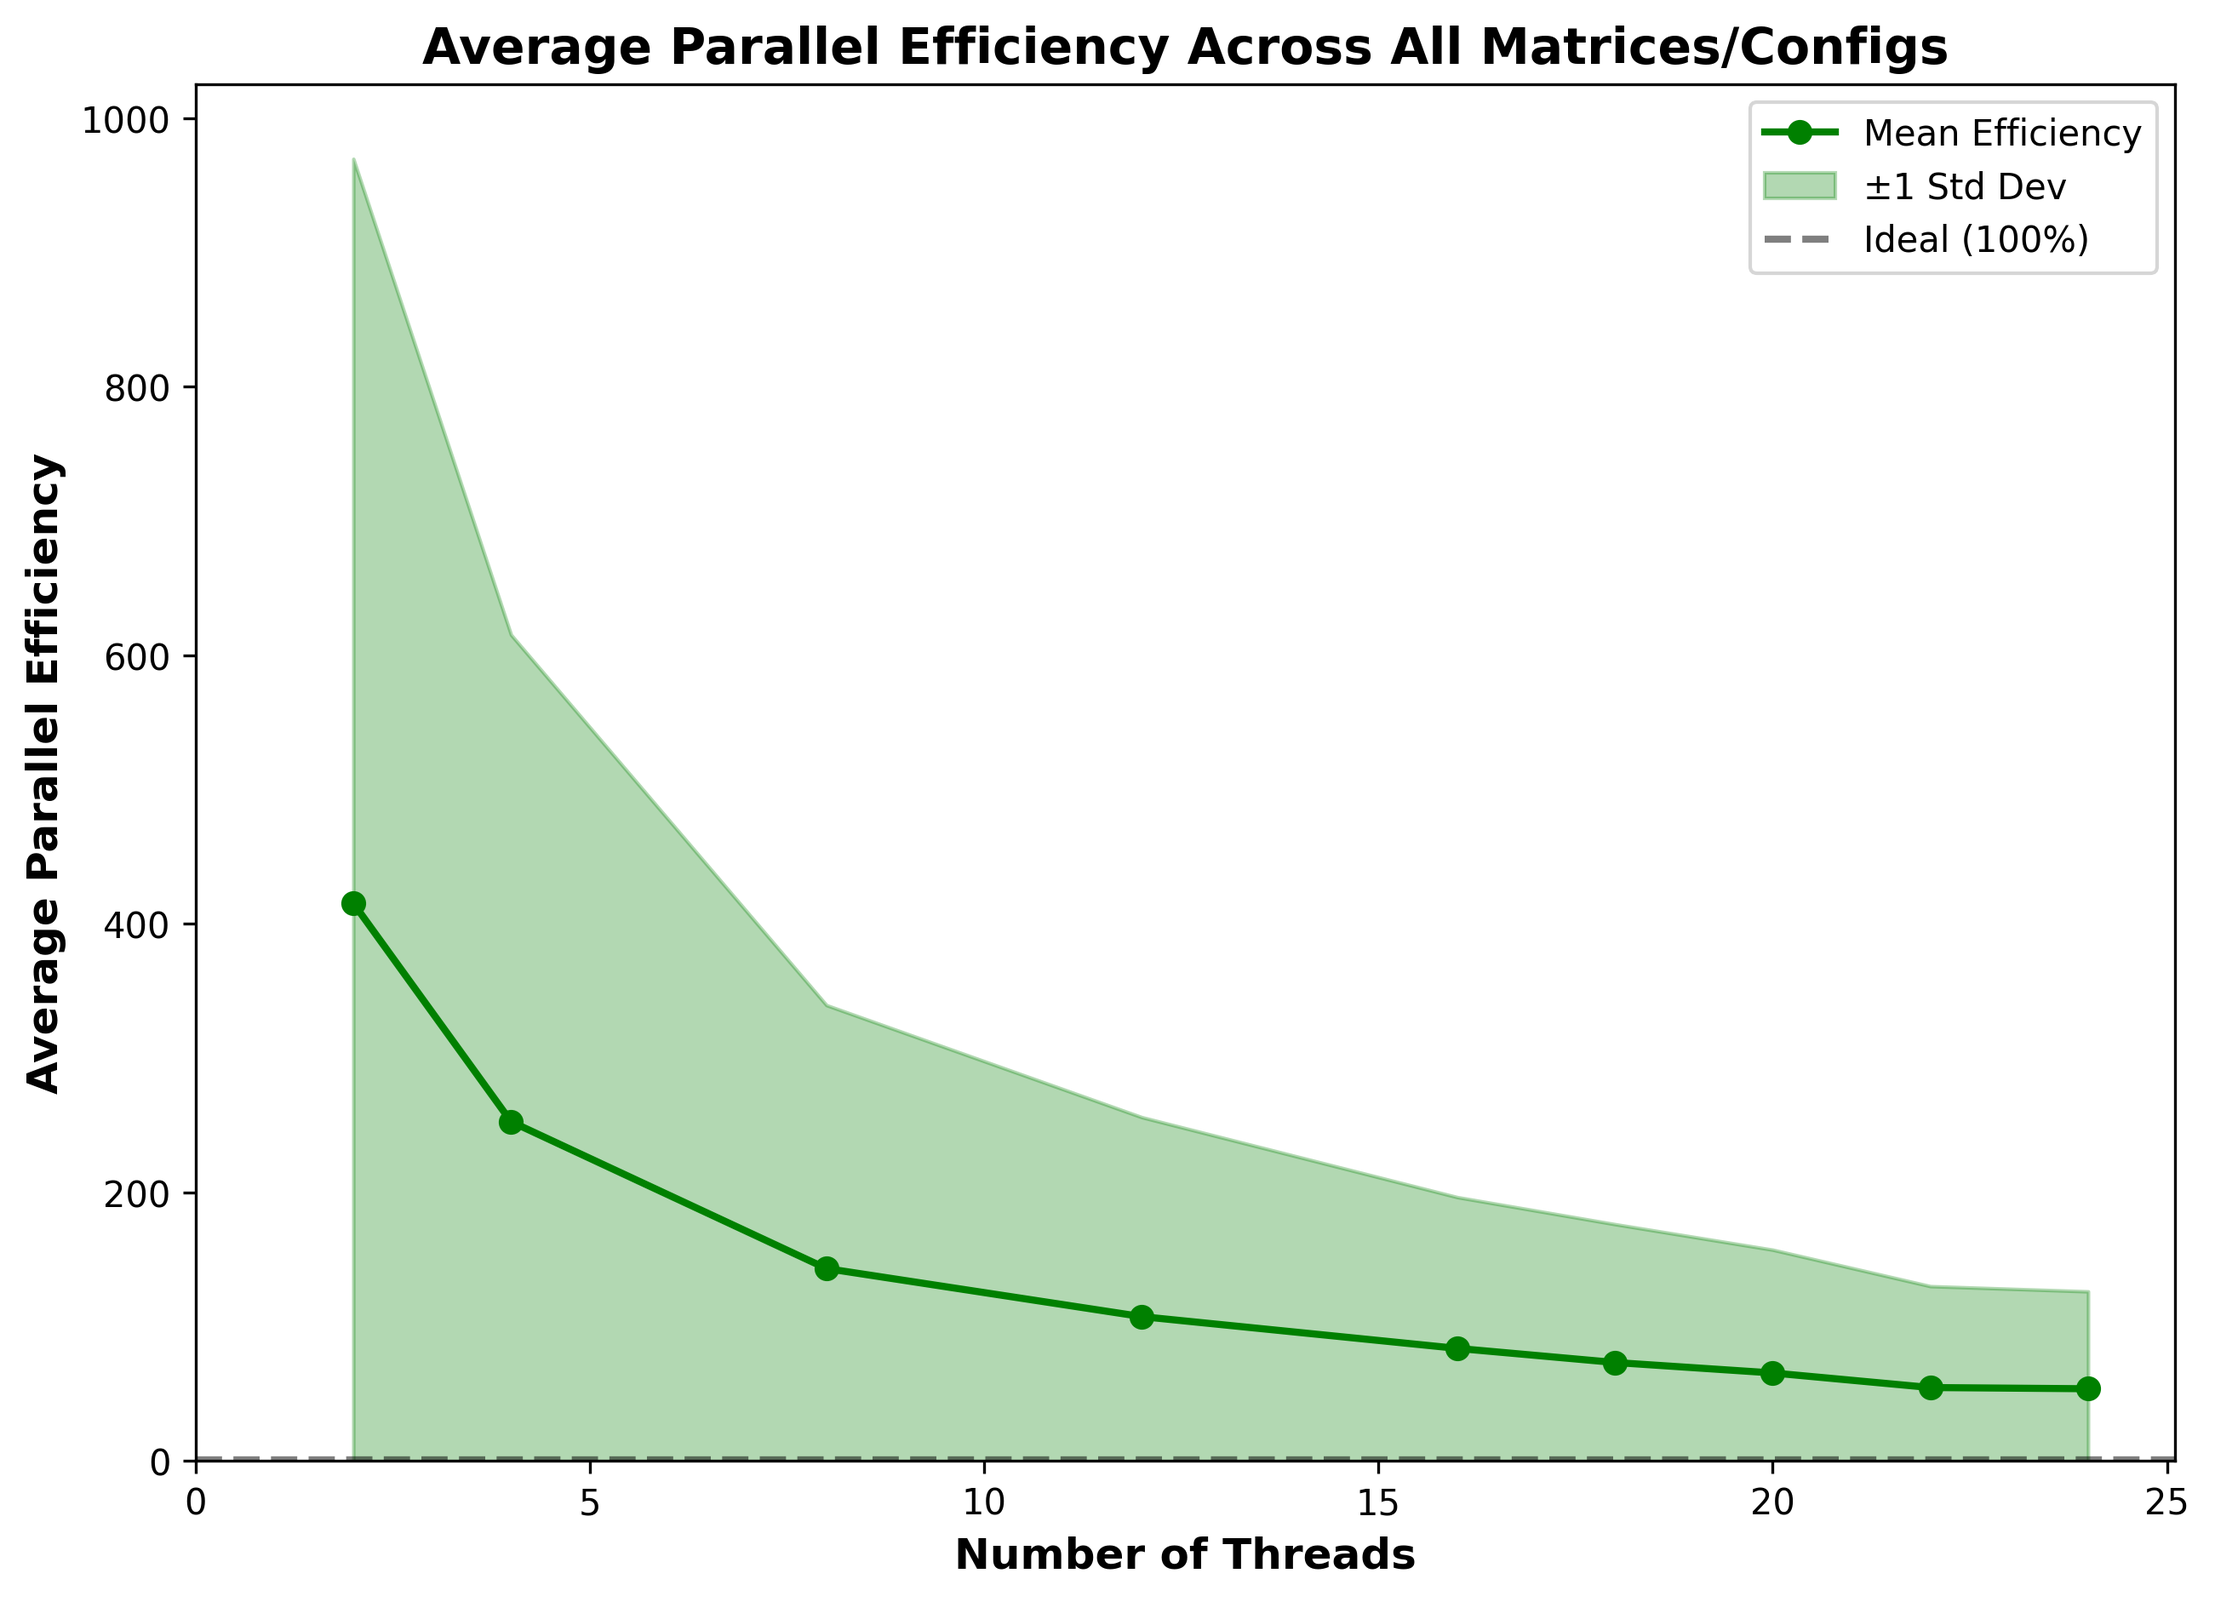
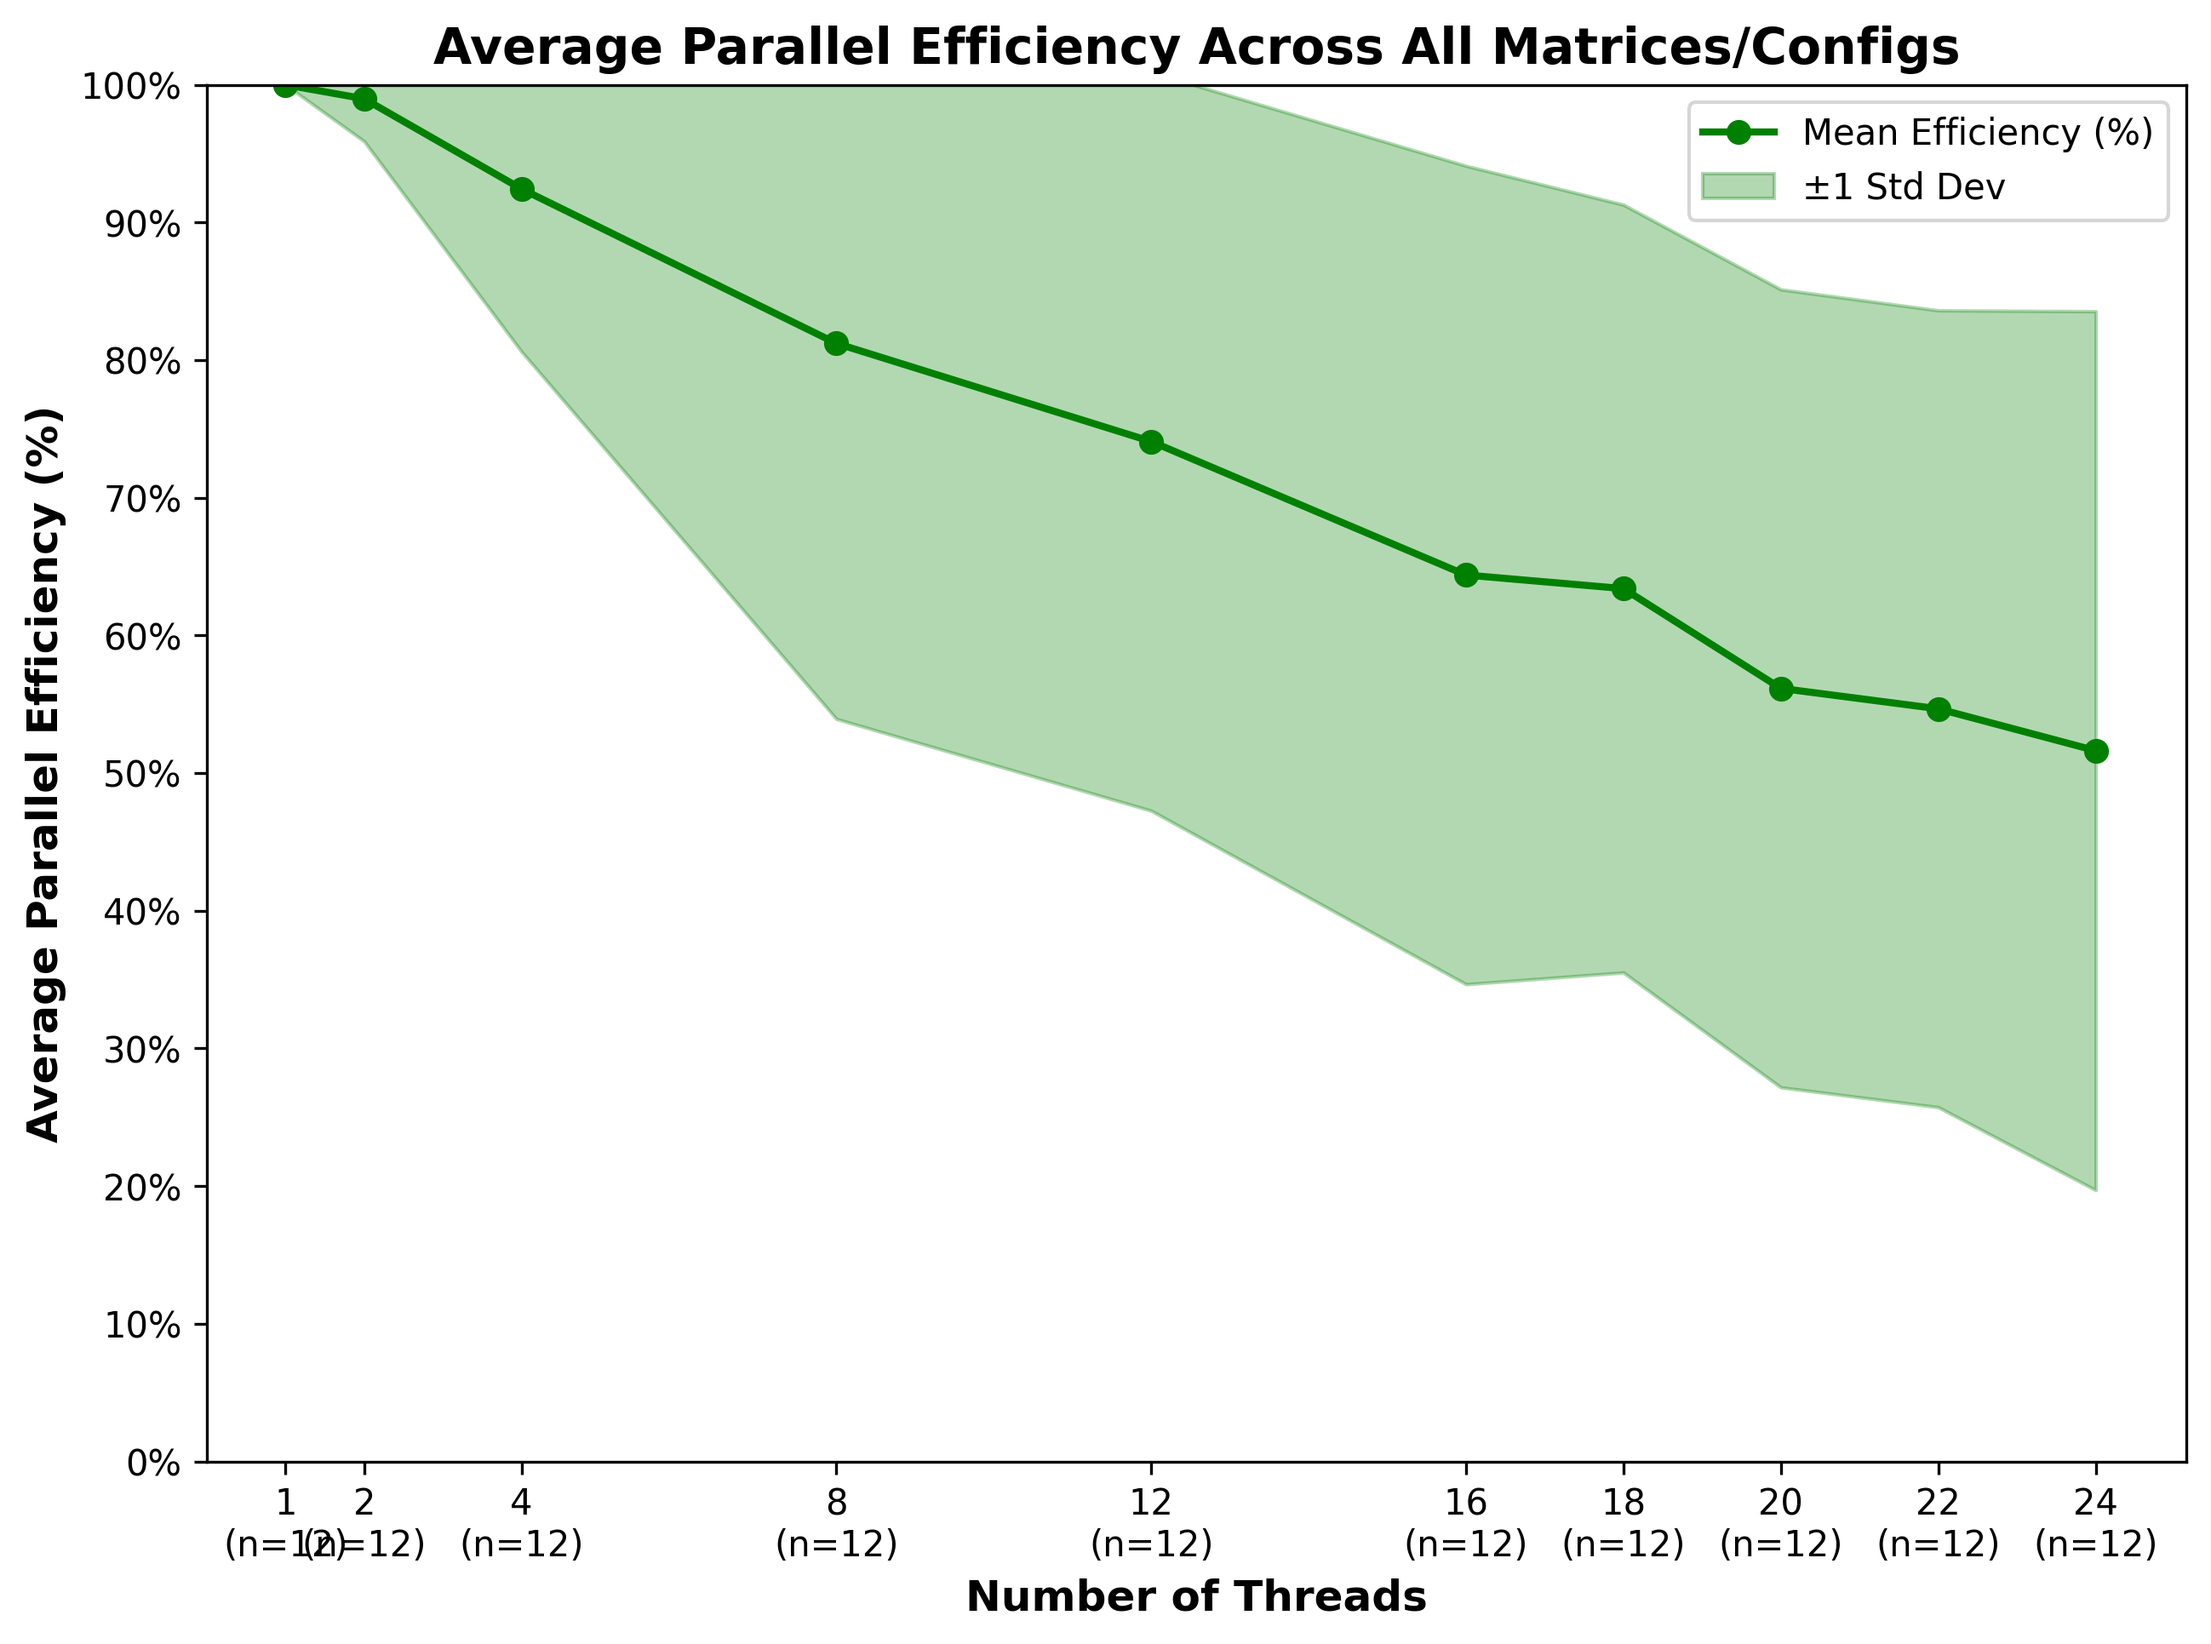
readme and plots changes

diff --git a/scripts/analyze_strong_scaling.py b/scripts/analyze_strong_scaling.py
@@ -89,21 +89,56 @@ def main():
     print()
 
     df = load_data(csv_file)
-    # If using matrices_results.csv, it already contains best-config speedups per matrix
-    if csv_file.name == 'matrices_results.csv':
-        print("\nUsing matrices_results.csv: building metrics from 'speedup_x' column")
-        # create a clean matrix name column (avoid touching existing 'matrix' column)
-        df['matrix_name'] = df['matrix'].apply(lambda x: os.path.basename(str(x).strip('"')).replace('.mtx', ''))
-        # ensure numeric
-        df['speedup_x'] = pd.to_numeric(df['speedup_x'], errors='coerce')
-        df = df.dropna(subset=['speedup_x', 'threads', 'matrix_name'])
-        # Build metrics_df with unique column names to avoid duplicate 'matrix' column issues
-        metrics_df = df[['matrix_name', 'threads', 'speedup_x']].copy()
-        metrics_df.columns = ['matrix', 'threads', 'speedup']
+
+    # Recompute speedups using per-matrix 1-thread times from configurations_results.csv when available.
+    conf_csv = results_dir / 'configurations_results.csv'
+    if conf_csv.exists():
+        print("\nRecomputing speedup using per-matrix 1-thread baselines from 'configurations_results.csv'...")
+        conf = pd.read_csv(conf_csv)
+        # ensure numeric and filter successful runs
+        conf['time_ms'] = pd.to_numeric(conf['time_ms'], errors='coerce')
+        if 'exit_code' in conf.columns:
+            conf = conf[conf['exit_code'] == 0]
+        conf = conf.dropna(subset=['time_ms', 'threads', 'matrix'])
+        # normalize matrix names (strip directories)
+        conf['matrix_name'] = conf['matrix'].apply(lambda x: os.path.basename(str(x).strip('"')).replace('.mtx', ''))
+
+        # build per-matrix serial baseline: use the fastest 1-thread time (best single-thread)
+        # This ensures speedup is relative to the best observed serial performance for each matrix.
+        serial_baseline = {}
+        for m, g in conf.groupby('matrix_name'):
+            one = g[g['threads'] == 1]
+            if one.empty:
+                continue
+            # fastest 1-thread time across configurations
+            serial_time = one['time_ms'].min()
+            serial_baseline[m] = serial_time
+
+        # for each matrix and thread count, pick best (min) time across configurations and compute speedup
+        rows = []
+        for (m, t), group in conf.groupby(['matrix_name', 'threads']):
+            if m not in serial_baseline:
+                continue
+            best_time = group['time_ms'].min()
+            if best_time <= 0 or pd.isna(best_time):
+                continue
+            speedup = serial_baseline[m] / best_time
+            efficiency = speedup / float(t) if t > 0 else float('nan')
+            rows.append({'matrix': m, 'threads': int(t), 'speedup': float(speedup), 'efficiency': float(efficiency)})
+
+        metrics_df = pd.DataFrame(rows)
         print(f"Built metrics for {metrics_df['matrix'].nunique()} matrices, {len(metrics_df)} rows total")
     else:
-        print("\nCalculating strong scaling metrics from configurations_results.csv...")
-        metrics_df = calculate_strong_scaling_metrics(df)
+        # Fallback: if configurations_results.csv missing, try to use matrices_results.csv speedup_x
+        print("\nconfigurations_results.csv not found — falling back to matrices_results.csv 'speedup_x' values")
+        if csv_file.name == 'matrices_results.csv':
+            df['matrix_name'] = df['matrix'].apply(lambda x: os.path.basename(str(x).strip('"')).replace('.mtx', ''))
+            df['speedup_x'] = pd.to_numeric(df['speedup_x'], errors='coerce')
+            df = df.dropna(subset=['speedup_x', 'threads', 'matrix_name'])
+            metrics_df = df[['matrix_name', 'threads', 'speedup_x']].copy()
+            metrics_df.columns = ['matrix', 'threads', 'speedup']
+        else:
+            metrics_df = calculate_strong_scaling_metrics(df)
     print(f"Calculated metrics for {len(metrics_df)} test runs")
 
     # --- Plot 1: Strong Scaling (Best configuration per matrix OR provided best results) ---
@@ -155,24 +190,41 @@ def main():
     else:
         print("No per-matrix series found to plot strong scaling.")
 
+    # Summary plot removed per user request; using average efficiency plot instead.
+
     # --- Plot 2: Parallel Efficiency vs Threads ---
+    # Compute parallel efficiency (speedup per thread) and convert to percentage
     metrics_df['efficiency'] = metrics_df['speedup'] / metrics_df['threads']
-    avg_eff = metrics_df.groupby('threads').agg({'efficiency': ['mean', 'std']}).reset_index()
-    avg_eff.columns = ['threads', 'mean', 'std']
+    avg_eff = metrics_df.groupby('threads').agg({'efficiency': ['mean', 'std', 'count']}).reset_index()
+    avg_eff.columns = ['threads', 'mean', 'std', 'count']
+
+    # Convert to percentage for plotting
+    avg_eff['mean_pct'] = avg_eff['mean'] * 100.0
+    avg_eff['std_pct'] = avg_eff['std'] * 100.0
 
     plt.figure(figsize=(10, 7))
-    plt.plot(avg_eff['threads'], avg_eff['mean'], 'g-o', linewidth=2, label='Mean Efficiency')
+    plt.plot(avg_eff['threads'], avg_eff['mean_pct'], 'g-o', linewidth=2, label='Mean Efficiency (%)')
     plt.fill_between(avg_eff['threads'],
-                     avg_eff['mean'] - avg_eff['std'],
-                     avg_eff['mean'] + avg_eff['std'],
+                     avg_eff['mean_pct'] - avg_eff['std_pct'],
+                     avg_eff['mean_pct'] + avg_eff['std_pct'],
                      alpha=0.3, color='green', label='±1 Std Dev')
-    plt.axhline(1.0, color='k', linestyle='--', linewidth=2, alpha=0.5, label='Ideal (100%)')
+    # Removed the ideal 100% horizontal line per user request
     plt.xlabel('Number of Threads', fontsize=12, fontweight='bold')
-    plt.ylabel('Average Parallel Efficiency', fontsize=12, fontweight='bold')
+    plt.ylabel('Average Parallel Efficiency (%)', fontsize=12, fontweight='bold')
     plt.title('Average Parallel Efficiency Across All Matrices/Configs', fontsize=14, fontweight='bold')
     plt.legend()
-    plt.xlim(left=0)
-    plt.ylim(bottom=0)
+    ax = plt.gca()
+    ax.set_xlim(left=0)
+    # Force y-axis to percentage range 0-100
+    ax.set_ylim(0, 100)
+    ax.set_yticks(np.arange(0, 101, 10))
+    ax.set_yticklabels([f"{int(t)}%" for t in ax.get_yticks()])
+    # Annotate sample counts under x ticks
+    xticks = avg_eff['threads'].astype(int).tolist()
+    labels = [f"{t}\n(n={int(c)})" for t, c in zip(avg_eff['threads'], avg_eff['count'])]
+    ax.set_xticks(xticks)
+    ax.set_xticklabels(labels)
+
     output_file_eff = plots_dir / 'average_efficiency_vs_threads.png'
     plt.savefig(output_file_eff, dpi=300, bbox_inches='tight')
     print(f"✓ Plot saved to: {output_file_eff}")

diff --git a/scripts/print_avg_eff.py b/scripts/print_avg_eff.py
@@ -1,0 +1,78 @@
+#!/usr/bin/env python3
+"""Print per-thread average efficiency (mean/std/count) in percent.
+
+This uses the same baseline selection logic as `analyze_strong_scaling.py`:
+- prefer per-matrix `configuration` containing 'Static' at threads==1 (non-SIMD)
+- otherwise use the fastest 1-thread time as fallback
+
+Run from project root: `python scripts/print_avg_eff.py`
+"""
+import pandas as pd
+from pathlib import Path
+import os
+
+
+def build_metrics(results_dir):
+    conf_csv = results_dir / 'configurations_results.csv'
+    if not conf_csv.exists():
+        raise SystemExit(f"Missing {conf_csv}; please run benchmarks first")
+    conf = pd.read_csv(conf_csv)
+    conf['time_ms'] = pd.to_numeric(conf['time_ms'], errors='coerce')
+    if 'exit_code' in conf.columns:
+        conf = conf[conf['exit_code'] == 0]
+    conf = conf.dropna(subset=['time_ms', 'threads', 'matrix'])
+    conf['matrix_name'] = conf['matrix'].apply(lambda x: os.path.basename(str(x).strip('"')).replace('.mtx',''))
+
+    serial_baseline = {}
+    for m, g in conf.groupby('matrix_name'):
+        one = g[g['threads'] == 1]
+        if one.empty:
+            continue
+        # use fastest 1-thread time as baseline (best serial)
+        serial_time = one['time_ms'].min()
+        serial_baseline[m] = serial_time
+
+    # Print baseline table to help diagnose baseline selection
+    print("\nPer-matrix serial baselines (matrix, baseline_ms, fastest_1thread_ms, candidates_count):")
+    for m, g in conf.groupby('matrix_name'):
+        one = g[g['threads'] == 1]
+        if one.empty:
+            continue
+        fastest = one['time_ms'].min()
+        count = len(one)
+        baseline = serial_baseline.get(m, float('nan'))
+        print(f"{m:30s} {baseline:10.4f} {fastest:10.4f} {count:4d}")
+
+    rows = []
+    for (m, t), group in conf.groupby(['matrix_name', 'threads']):
+        if m not in serial_baseline:
+            continue
+        best_time = group['time_ms'].min()
+        if best_time <= 0 or pd.isna(best_time):
+            continue
+        speedup = serial_baseline[m] / best_time
+        efficiency = speedup / float(t) if t > 0 else float('nan')
+        rows.append({'matrix': m, 'threads': int(t), 'speedup': float(speedup), 'efficiency': float(efficiency)})
+
+    return pd.DataFrame(rows)
+
+
+def main():
+    project_root = Path(__file__).parent.parent
+    results_dir = project_root / 'results'
+    metrics = build_metrics(results_dir)
+    if metrics.empty:
+        print('No metrics built; check results CSV')
+        return
+    agg = metrics.groupby('threads').agg({'efficiency': ['mean', 'std', 'count']}).reset_index()
+    agg.columns = ['threads', 'mean', 'std', 'count']
+    agg['mean_pct'] = agg['mean'] * 100.0
+    agg['std_pct'] = agg['std'] * 100.0
+    agg = agg.sort_values('threads')
+    print(f"{'threads':>7} {'mean%':>10} {'std%':>10} {'count':>6}")
+    for _, r in agg.iterrows():
+        print(f"{int(r['threads']):7d} {r['mean_pct']:10.2f} {r['std_pct']:10.2f} {int(r['count']):6d}")
+
+
+if __name__ == '__main__':
+    main()

diff --git a/README.md b/README.md
@@ -52,12 +52,15 @@ PARCO-Computing-2026-244967/
 │   ├── matrices_results.csv    # Speedup benchmark results
 │   └── cache_valgrind_results.csv # Cache analysis results
 ├── plots/                       # Generated figures (PNG)
-│   ├── strong_scaling/         # Strong scaling analysis plots
-│   ├── speedup_vs_threads.png  # Thread scaling visualization
-│   ├── speedup_vs_density.png  # Density impact analysis
-│   ├── speedup_heatmap.png     # Configuration heatmap
-│   ├── parallel_efficiency.png # Efficiency curves
-│   ├── top_configurations.png  # Best config comparison
+│   ├── average_efficiency_vs_threads.png
+│   ├── average_speedup_vs_threads.png
+│   ├── memory_optimization_improvement.png
+│   ├── numa_scaling_efficiency_doubling.png
+│   ├── numa_speedup_vs_threads_binding.png
+│   ├── speedup_per_matrix_subplots.png
+│   ├── speedup_vs_threads.png
+│   ├── speedup_vs_threads_best.png
+│   ├── strong_scaling_best_configs.png
 │   └── *.png                   # Additional visualizations
 ├── executable                   # Main SpMV program (compiled)
 ├── test_config                  # Phase 1 testing tool (compiled)
@@ -319,6 +322,11 @@ python3 scripts/analyze_configurations_text.py
 python3 scripts/analyze_strong_scaling.py
 ```
 
+```bash
+# Print per-thread average parallel efficiency (mean/std/count in %)
+python3 scripts/print_avg_eff.py
+```
+
 - **Generates:**
 - SIMD impact analysis (typical improvements vary by matrix)
 - Thread affinity benefits (~5% gain)
@@ -328,7 +336,7 @@ python3 scripts/analyze_strong_scaling.py
   - **Mean speedup:** 1192.55× (117 numeric entries)
   - **Median speedup:** 465.7×
   - **Peak (max) speedup observed:** 6152.31×
-  - **Unique matrices in that results file:** 13
+  - **Unique matrices in that results file:** 15
 - Plots saved to `plots/`
 
 ### Analyze Phase 2 Results (When Available)
